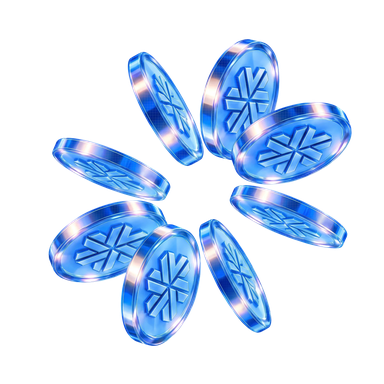
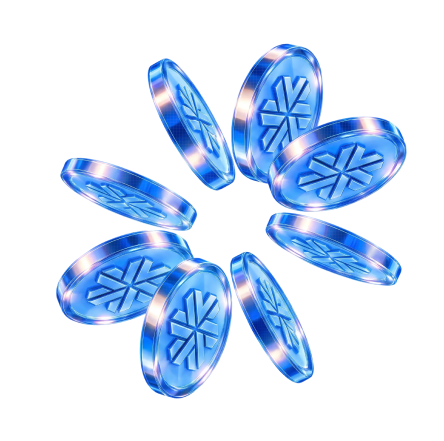
referal: монетки как в компонентах Figma (картинка, размеры, позиции)

diff --git a/referal/index.html b/referal/index.html
@@ -59,7 +59,8 @@
   .banner--104 { min-height: 72px; justify-content: center; padding: 14px 16px; --glow: url(assets/glow-banner-104.svg); }
   .banner--60  { min-height: 60px; justify-content: center; padding: 10px 16px; --glow: url(assets/glow-menu-60.svg); }
   .banner .coins { position: absolute; pointer-events: none; }
-  .banner--140 .coins { right: 0; top: 22px; width: 96px; }
+  /* WHY: позиции монеток сняты с компонентов Figma (12619:26444): картинка 148×147, смещения от правого края */
+  .banner--140 .coins { right: -19.5px; top: 11px; width: 120.5px; }
   .banner--60  .coins { right: -1px; top: -7px; width: 110px; }
   .bTitle, .bText, .bLink { position: relative; }
   .bTitle { font-size: 16px; font-weight: 500; line-height: 20px; padding-right: 100px; }
@@ -94,7 +95,7 @@
   .pHead { position: relative; color: #fff; padding: 60px 16px 20px; background: var(--navy); --glow: url(assets/glow-sheet-178.svg); isolation: isolate; overflow: hidden; min-height: 178px; box-sizing: border-box; border-radius: 16px 16px 0 0; }
   .pHead--ended { --glow: url(assets/glow-sheet-196.svg); padding-top: 64px; }
   .pHead .sheetClose { color: #fff; top: 20px; }
-  .pHead .coins { position: absolute; right: 10px; top: 62px; width: 88px; height: 88px; pointer-events: none; }
+  .pHead .coins { position: absolute; right: 1px; top: 47px; width: 131px; pointer-events: none; }
   .pTitle { font-size: 16px; font-weight: 500; line-height: 20px; max-width: calc(100% - 128px); }
   .pText { font-size: 14px; line-height: 18px; margin-top: 8px; max-width: calc(100% - 100px); }
   .pLinks { display: flex; flex-wrap: wrap; gap: 8px 24px; margin-top: 16px; }
